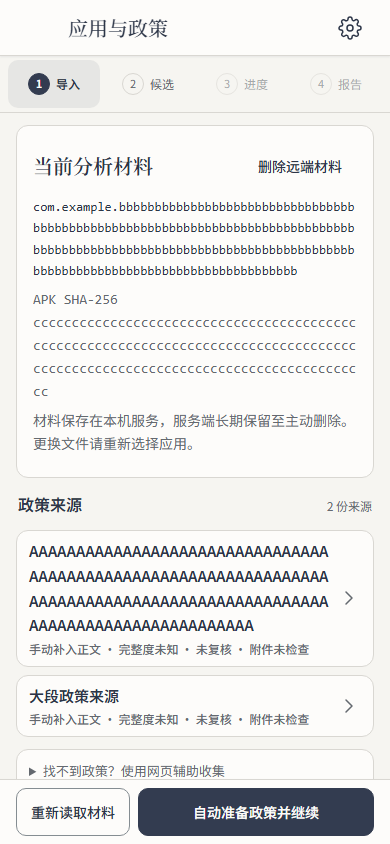
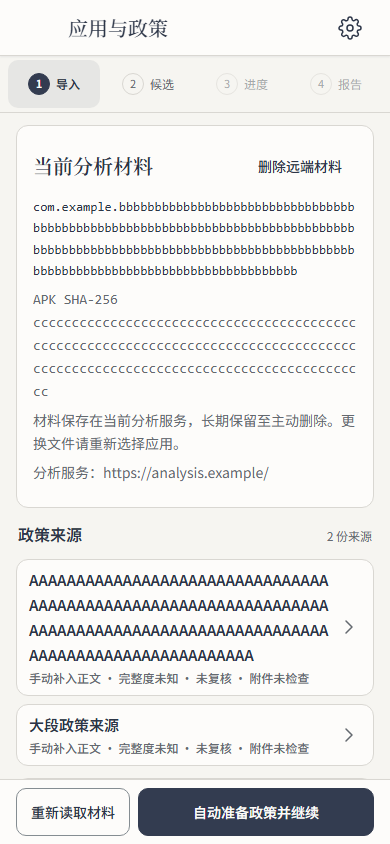
docs: integrate mobile reading polish and bind round-2 evidence to 376d658

Changed region(s): [[0.0308, 0.4929, 0.9538, 0.9242], [0.8615, 0.8318, 0.9231, 0.8934]]

diff --git a/docs/acceptance/frontend-round2/20261022.md b/docs/acceptance/frontend-round2/20261022.md
@@ -1,7 +1,7 @@
-# 前端打磨第二轮 · 父票汇总（Android 竖屏优先）
+# 前端打磨第二轮 · 父票汇总（Android 竖屏优先）
 
 父票：[#141](https://github.com/MrEcho114/PrivacyTrace/issues/141)。执行日期：2026-10-21/22。
-唯一交付入口：[PR #160](https://github.com/MrEcho114/PrivacyTrace/pull/160)（`codex/frontend-round2`，head `25ab23e`；本文件保留最终验证时的收据）。
+唯一交付入口：[PR #160](https://github.com/MrEcho114/PrivacyTrace/pull/160)（`codex/frontend-round2`，head `376d658`；本文件保留最终验证时的收据）。
 设计合同：[`docs/design/frontend-round2-android-pioneer.md`](../design/frontend-round2-android-pioneer.md)。
 
 ## 一句话结果
@@ -20,6 +20,17 @@ A–E 五个子票的第二轮实现已合入同一条集成分支：移动端 T
 
 五个子票的来源 PR/执行记录均保留；第二轮不平行维护第二套实现。
 
+## 后续设计增量（PR #162，同分支）
+
+[PR #162](https://github.com/MrEcho114/PrivacyTrace/pull/162) 是 #141/#144 范围内的移动阅读增量，基于本分支 `c80f5b5`，由独立设计会话交付，已快进并入本整合树：
+
+- `MobileReportSummary`：移动报告只出现一次应用身份；来源与投递方式分开；首屏保留统计、第一条结论与证据入口；完整边界/包名/时间/材料详情放在“报告来源与版本”内，桌面继续使用原结构。
+- `MobileMaterialContext`：候选/进度材料条把“详情”和“更换”放在同一行，长名称可展开，48px 触控；“更换”复用既有返回路径，不重复上传。
+- 文案：远端材料统一为“分析服务”并显示实际 origin；设置保留本机模型 Key 说明；证据边界文案未升级结论。
+- 验证：`acceptance:reading` 7 组 + 8 图（390/320/768/200%/desktop-1440）；A–E 的 round2/reading/hierarchy/a11y/motion/primitives/frontend/mobile 在合并后全部重跑通过；CI 在最终 head 重新绑定。
+- 证据：[`docs/acceptance/mobile-reading/`](../mobile-reading/README.md)（`verification.json` 记录 source SHA/视口/平台）。
+
+
 ## 证据分层（按父票要求）
 
 1. **移动竖屏主图（Chromium 390×844，浏览器模拟）**：`docs/acceptance/issue144/round2/`
@@ -29,7 +40,7 @@ A–E 五个子票的第二轮实现已合入同一条集成分支：移动端 T
 2. **移动浏览器证据**：`docs/acceptance/issue144/round2/` 的 23 张图 + `mobile-round2-walkthrough.json`（逐图平台/视口/源码 SHA/采集时点/fixture 标签）。每张图均为 `mocked native bridge + deterministic fixture`，不执行 APK/模型/Docker。
 3. **横屏/平板兼容性**：同目录 `768-*`、`844x390-*`，作为补充，不替代竖屏主图。
 4. **桌面 Web 证据（B 的独立证据）**：`docs/design/issue143/evidence/round2/` 的 1280/1440/1920 图与 `verification.json`；属于 Web，不混入 Android 主图组。
-5. **组件/动效定向证据**：`docs/design/issue142/evidence/`（UiSheet）、`docs/acceptance/issue146/`（桌面动效前后/减少动效）。
+5. **组件/动效/阅读定向证据**：`docs/design/issue142/evidence/`（UiSheet）、`docs/acceptance/issue146/`（桌面动效前后/减少动效）、`docs/acceptance/mobile-reading/`（8 张移动阅读图 + `verification.json`，PR #162）。
 6. **历史材料**：第一轮截图、旧 PoC、PR #152/#154/#156/#158 的旧 receipt 保留原 SHA/状态，不倒改。
 
 ## 验证（整合树，最终收据以 PR 为准）
@@ -43,11 +54,12 @@ node scripts/verify-issue143-hierarchy.cjs   PASS 10 组（1280/1440/1920）
 node scripts/verify-issue145-a11y.cjs        PASS 14 组（桌面状态/焦点/对比度/AX tree）
 node scripts/verify-issue146-motion.cjs      PASS 20 组（保留第一轮 17 + 反证）
 node scripts/verify-round2-primitives.cjs    PASS 15 组
+npm run acceptance:reading                    PASS 7 组 + 8 图（PR #162 移动阅读增量）
 npm run typecheck / build                     PASS
 bash scripts/check.sh                         PASS（最终以 PR 绑定 SHA 的 CI 与本地收据为准）
 ```
 
-产物（整合树）：CSS 65.13 kB / gzip 11.97 kB；JS 263.64 kB / gzip 92.89 kB。相对第一轮构建有所增长（移动外壳/证据组件/sheet），但没有新增运行时依赖；依赖与锁文件未变。
+产物（整合树）：CSS 69.37 kB / gzip 12.56 kB；JS 268.31 kB / gzip 94.24 kB。相对第一轮构建有所增长（移动外壳/证据组件/sheet/移动阅读摘要），但没有新增运行时依赖；依赖与锁文件未变。
 
 ## 与目标的对应
 

diff --git a/docs/design/frontend-round2-android-pioneer.md b/docs/design/frontend-round2-android-pioneer.md
@@ -1,4 +1,4 @@
-# 前端打磨第二轮：Pioneer × 真实 Android 竖屏
+# 前端打磨第二轮：Pioneer × 真实 Android 竖屏
 
 状态：2026-10-21 第二轮设计合同。父票 [#141](https://github.com/MrEcho114/PrivacyTrace/issues/141)，子票 #142–#146。
 基线与集成：`origin/main` `6e0122d1a84999de82c458f51c826248698c97dc`；集成分支 `codex/frontend-round2`。
@@ -212,4 +212,6 @@ A 的交付：token 映射表、UiSheet/UiIcon 源码、定向 `scripts/verify-f
 - 2026-10-21 E（外部 head `c1a11f8`，合并 `f7867db` + `3a14031`）：并入第一轮 motion/hover/reduced-motion；新增 `--m-duration-*`/easing token、`UiSheet` 200ms 进入、步骤 160ms 进入、按钮/候选行 120–150ms；`prefers-reduced-motion` 全部即时。sheet 退出为即时卸载（未实现 150ms exit），已写入 #146 round-2 记录。
 - 2026-10-21 D（外部 PR #158 head `5f12bcf`，合并 `79f45d7`）：并入第一轮原地刷新/焦点/live region/对比度；在 C 外壳上复核顶栏 h1/返回设置名称、步骤 `aria-current`、操作栏 group、忙提示文本与停止按钮分离、证据 sheet 的 `dialog`/`aria-modal`/labelledby/describedby、scrim/Esc/返回关闭与焦点返回；`verify-issue145-a11y.cjs` 14 项桌面回归 + round-2 脚本新增移动语义断言。
 - 2026-10-22 整合次序实际为 A → B → C → E → D（E 先于 D 合并；D 只增加语义，不改视觉，重跑全部脚本通过）。第二轮最终唯一交付入口是 `codex/frontend-round2` 的 PR；旧 #152/#154/#156/#158 作为来源记录，不并行实现第二套。
-- 2026-10-22 交付：集成 PR [#160](https://github.com/MrEcho114/PrivacyTrace/pull/160)（head `25ab23e`）；A–E 汇总与证据见 `docs/acceptance/frontend-round2/20261022.md`。\n- 2026-10-22 视觉复验修正：程序化聚焦 h1 不再画控件式焦点环；候选来源元信息在移动端用 `·` 节奏，不再糊成一行；sheet 进入动效纳入 reduced-motion；桌面来源面板不再重复来源标题（B 的层级守卫）。
+- 2026-10-22 交付：集成 PR [#160](https://github.com/MrEcho114/PrivacyTrace/pull/160)（最终 head `376d658`）；A–E 汇总与证据见 `docs/acceptance/frontend-round2/20261022.md`。
+- 2026-10-22 增量 PR [#162](https://github.com/MrEcho114/PrivacyTrace/pull/162)（`aec1cf8`，设计会话 OasisViridis）：移动报告改用 `MobileReportSummary` 单一身份摘要、来源/投递分离、首屏保留第一条结论与证据入口；候选/进度材料条改用 `MobileMaterialContext`，详情与更换同一行；远端材料文案收敛为“分析服务”；新增 `acceptance:reading` 7 组 + 8 图。该增量只改移动展示与文案，不改 flow/API/theme/锁文件；已快进并入 `codex/frontend-round2` 并重跑 A–E 全部门禁。
+- 2026-10-22 视觉复验修正：程序化聚焦 h1 不再画控件式焦点环；候选来源元信息在移动端用 `·` 节奏，不再糊成一行；sheet 进入动效纳入 reduced-motion；桌面来源面板不再重复来源标题（B 的层级守卫）。
